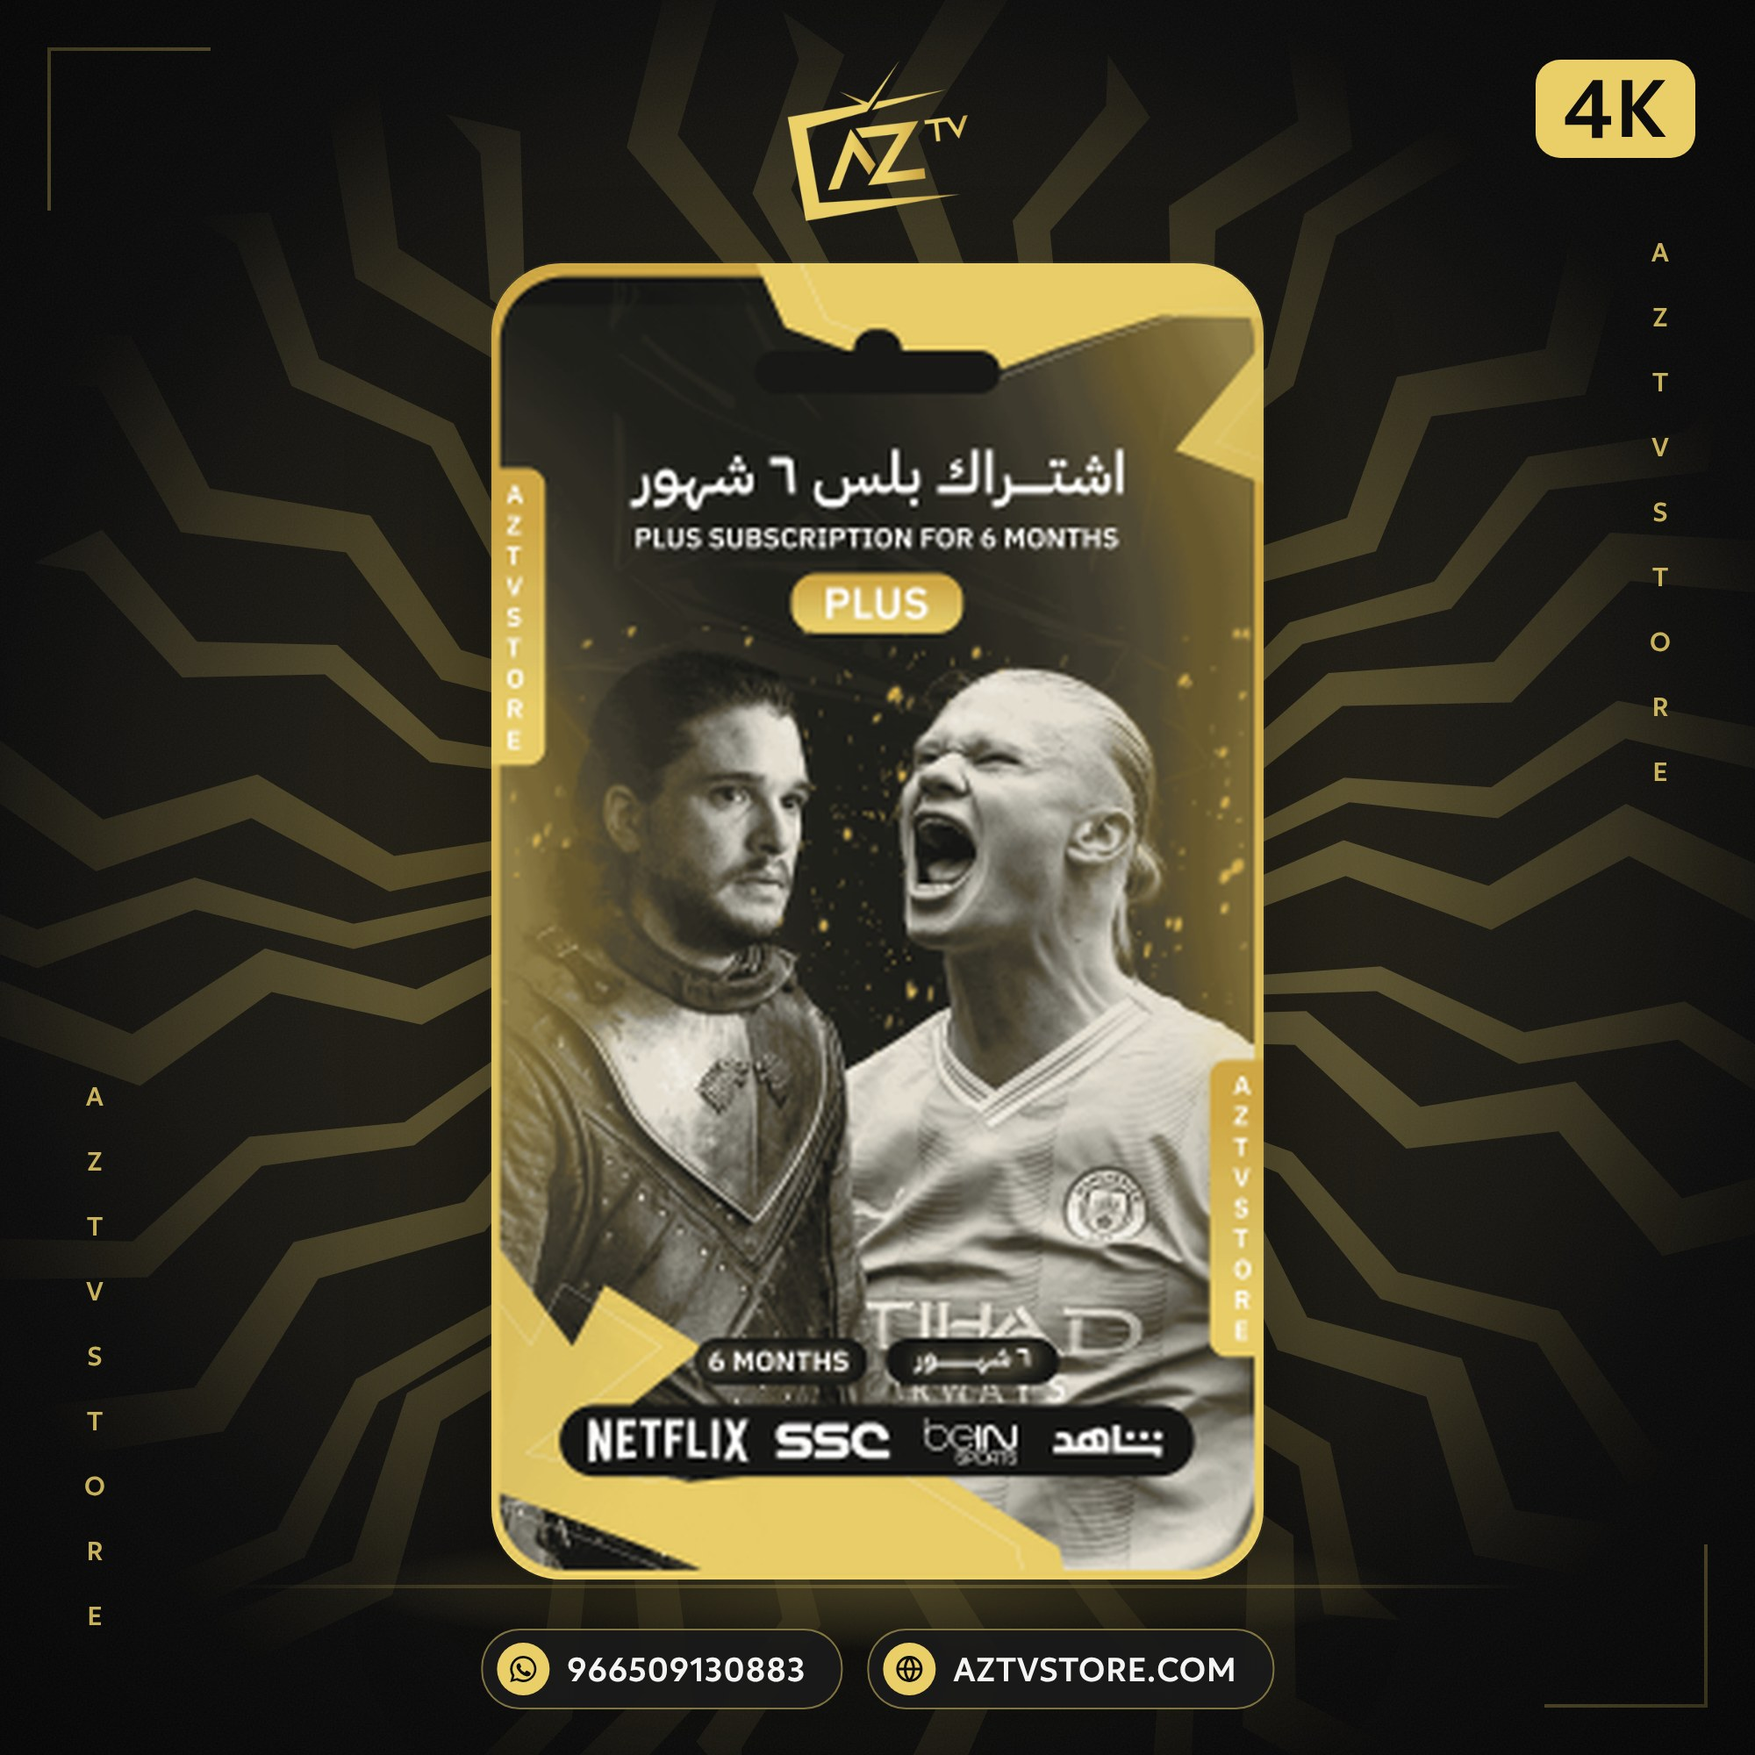
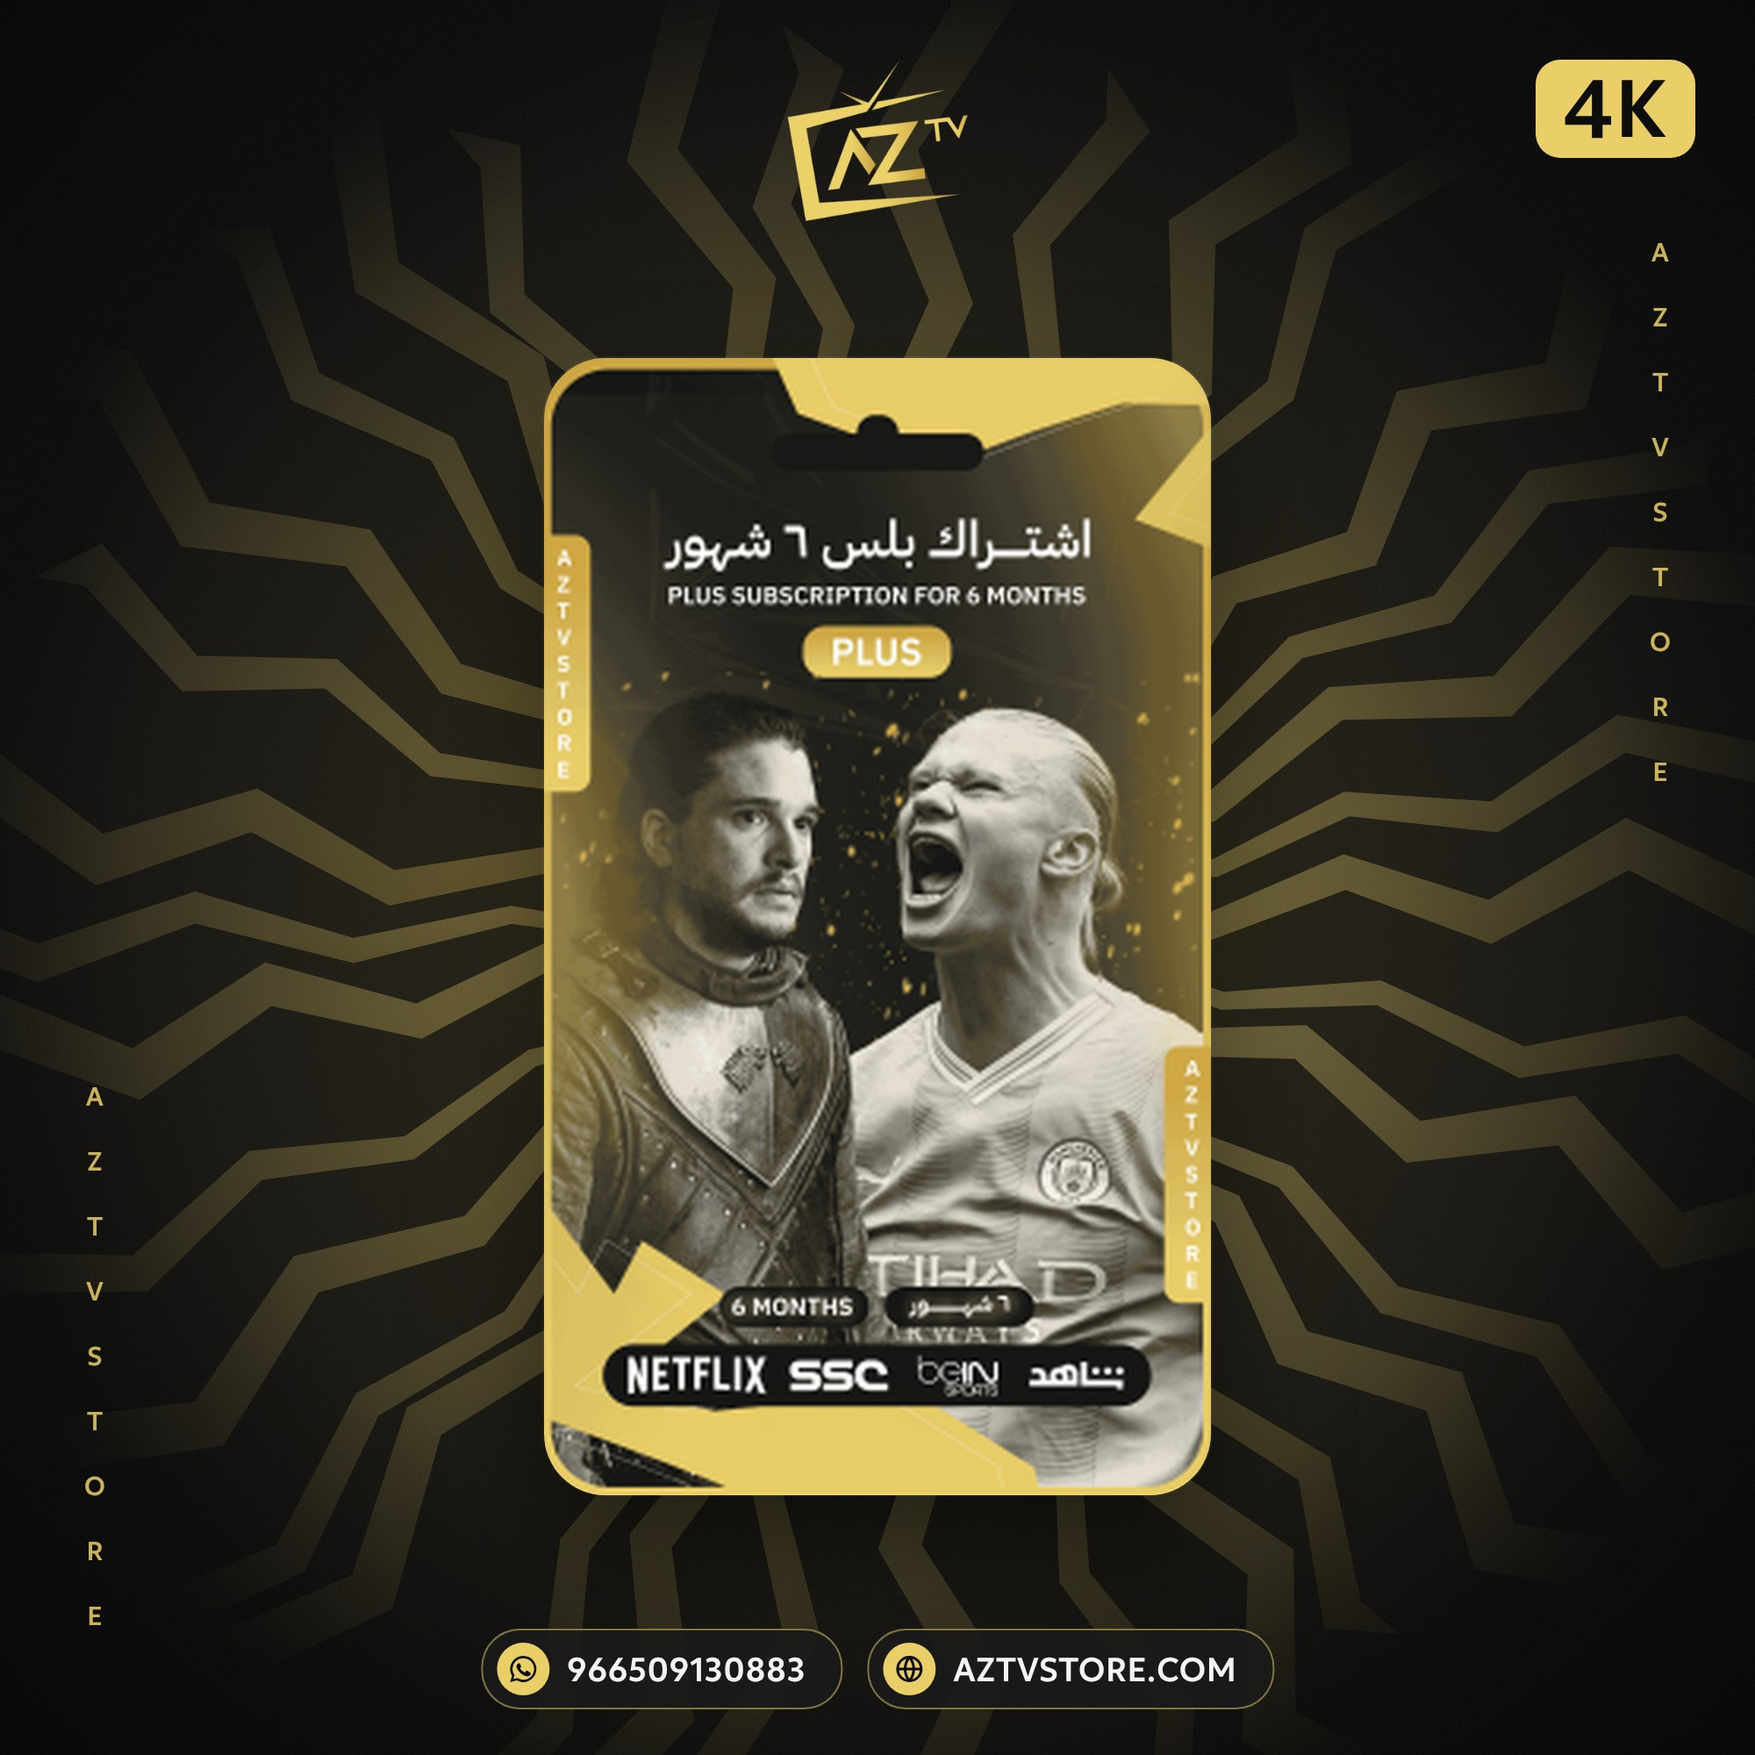
Subscription backgrounds round 2: drop Option A, clean up B, add halo Option C
Option B loses the floor light and corner frames. New Option C: light
from above, soft shafts, thin rings with a glowing top arc. Card area
reduced to 380x648 in both.

Claude-Session: https://claude.ai/code/session_01APUoivmsLmAKtGKCuQEHPz

Changed region(s): [[0.062, 0.093, 0.961, 0.93]]

diff --git a/05-design/shared/subscription-backgrounds/backgrounds.html b/05-design/shared/subscription-backgrounds/backgrounds.html
@@ -6,11 +6,11 @@
 <title>Subscription Backgrounds</title>
 <!--
   One background for every subscription card: AZ TV (white) and AZ TV Plus (gold).
-  Two directions to choose from: A = diagonal shards (the old look, redrawn), B = spotlight burst.
-  The card sits in the reserved area (x 280-720, y 150-900 on the 1000 x 1000 canvas), same place as the old images,
-  so the existing card files drop straight in.
+  Two directions to choose from: B = spotlight burst, C = halo (light from above, thin rings).
+  The card sits in the reserved area (x 310-690, y 204-852 on the 1000 x 1000 canvas): same proportions as the old cards,
+  a little smaller than in the old images, so the existing card files still drop straight in.
 
-  URL options:  ?opt=a|b  &tier=regular|plus  &guide=1 (show the card area)  &card=path/to/card.png (mock-up)
+  URL options:  ?opt=b|c  &tier=regular|plus  &guide=1 (show the card area)  &card=path/to/card.png (mock-up)
   Export:       node render.cjs  (writes export/ and mockups/)
 -->
 <style>
@@ -38,7 +38,6 @@
   .side--r { right: 40px; top: 56px; }
   .side--l { left: 40px; bottom: 56px; }
   .bg[data-tier="plus"] .side { color: var(--gold); }
-  .bg[data-opt="a"] .side { mix-blend-mode: difference; opacity: 1; }
 
   /* 4K badge (Plus only) */
   .badge {
@@ -67,16 +66,16 @@
 
   /* reserved card area */
   .guide {
-    position: absolute; left: 280px; top: 150px; width: 440px; height: 750px; border-radius: 40px;
+    position: absolute; left: 310px; top: 204px; width: 380px; height: 648px; border-radius: 35px;
     outline: 3px dashed #ff3b6b; outline-offset: 0; display: none;
   }
   .guide::after {
-    content: "CARD 440 x 750"; position: absolute; inset: auto 0 50% 0; text-align: center;
+    content: "CARD 380 x 648"; position: absolute; inset: auto 0 50% 0; text-align: center;
     font: 700 22px/1 system-ui, sans-serif; color: #ff3b6b; direction: ltr;
   }
   .show-guide .guide { display: block; }
   .card {
-    position: absolute; left: 280px; top: 150px; width: 440px; height: 750px; border-radius: 40px; overflow: hidden;
+    position: absolute; left: 310px; top: 204px; width: 380px; height: 648px; border-radius: 35px; overflow: hidden;
     box-shadow: 0 40px 70px rgba(0, 0, 0, .55), 0 0 0 1px rgba(255, 255, 255, .06); display: none;
   }
   .card img { width: 100%; height: 100%; object-fit: cover; display: block; }
@@ -100,7 +99,7 @@
 
 <script>
 const q = new URLSearchParams(location.search);
-const opt = q.get("opt") || "a";
+const opt = q.get("opt") || "b";
 const tier = q.get("tier") || "regular";
 const bg = document.getElementById("bg");
 const art = document.getElementById("art");
@@ -143,83 +142,81 @@ const defs = `
     <linearGradient id="band" x1="0" y1="0" x2="1" y2="1">
       <stop offset="0" stop-color="${C.hi}"/><stop offset=".55" stop-color="${C.mid}"/><stop offset="1" stop-color="${C.lo}"/>
     </linearGradient>
-    <radialGradient id="spot" cx="500" cy="500" r="520" gradientUnits="userSpaceOnUse">
+    <radialGradient id="spot" cx="500" cy="528" r="520" gradientUnits="userSpaceOnUse">
       <stop offset="0" stop-color="rgb(${C.glow})" stop-opacity="${plus ? .34 : .2}"/>
       <stop offset=".45" stop-color="rgb(${C.glow})" stop-opacity="${plus ? .1 : .06}"/>
       <stop offset="1" stop-color="rgb(${C.glow})" stop-opacity="0"/>
     </radialGradient>
-    <radialGradient id="rayfade" cx="500" cy="520" r="560" gradientUnits="userSpaceOnUse">
+    <radialGradient id="rayfade" cx="500" cy="528" r="560" gradientUnits="userSpaceOnUse">
       <stop offset=".3" stop-color="#fff" stop-opacity="1"/><stop offset="1" stop-color="#fff" stop-opacity="0"/>
     </radialGradient>
     <mask id="raymask"><rect width="1000" height="1000" fill="url(#rayfade)"/></mask>
     <radialGradient id="vignette" cx="500" cy="480" r="760" gradientUnits="userSpaceOnUse">
       <stop offset=".55" stop-color="#000" stop-opacity="0"/><stop offset="1" stop-color="#000" stop-opacity=".75"/>
     </radialGradient>
-    <linearGradient id="floor" x1="0" y1="0" x2="1" y2="0">
-      <stop offset="0" stop-color="rgb(${C.glow})" stop-opacity="0"/>
-      <stop offset=".5" stop-color="rgb(${C.glow})" stop-opacity=".9"/>
+    <linearGradient id="beam" x1="0" y1="0" x2="0" y2="1">
+      <stop offset="0" stop-color="rgb(${C.glow})" stop-opacity="${plus ? .34 : .22}"/>
+      <stop offset=".55" stop-color="rgb(${C.glow})" stop-opacity="${plus ? .1 : .06}"/>
       <stop offset="1" stop-color="rgb(${C.glow})" stop-opacity="0"/>
     </linearGradient>
-    <radialGradient id="pool" cx="500" cy="905" r="300" gradientUnits="userSpaceOnUse" gradientTransform="translate(0 905) scale(1 .12) translate(0 -905)">
-      <stop offset="0" stop-color="rgb(${C.glow})" stop-opacity=".45"/><stop offset="1" stop-color="rgb(${C.glow})" stop-opacity="0"/>
+    <filter id="soft" filterUnits="userSpaceOnUse" x="-100" y="-100" width="1200" height="1200"><feGaussianBlur stdDeviation="18"/></filter>
+    <filter id="shaft" filterUnits="userSpaceOnUse" x="-100" y="-100" width="1200" height="1200"><feGaussianBlur stdDeviation="9"/></filter>
+    <radialGradient id="halo" cx="500" cy="528" r="430" gradientUnits="userSpaceOnUse">
+      <stop offset="0" stop-color="rgb(${C.glow})" stop-opacity="${plus ? .22 : .13}"/>
+      <stop offset=".6" stop-color="rgb(${C.glow})" stop-opacity="${plus ? .06 : .035}"/>
+      <stop offset="1" stop-color="rgb(${C.glow})" stop-opacity="0"/>
     </radialGradient>
+    <linearGradient id="arcfade" x1="360" y1="0" x2="640" y2="0" gradientUnits="userSpaceOnUse">
+      <stop offset="0" stop-color="${C.hi}" stop-opacity="0"/><stop offset=".5" stop-color="${C.hi}"/>
+      <stop offset="1" stop-color="${C.hi}" stop-opacity="0"/>
+    </linearGradient>
+    <linearGradient id="ring" x1="0" y1="0" x2="0" y2="1">
+      <stop offset="0" stop-color="${C.hi}" stop-opacity=".9"/>
+      <stop offset=".5" stop-color="${C.mid}" stop-opacity=".35"/>
+      <stop offset="1" stop-color="${C.lo}" stop-opacity=".05"/>
+    </linearGradient>
   </defs>`;
 
 let body = "";
 
-if (opt === "a") {
-  // A: diagonal shards. Same geometry for both tiers, only the colour changes (white / gold).
-  const dark = `<rect width="1000" height="1000" fill="#0D0D0D"/>
-    <rect width="1000" height="1000" fill="url(#spot)"/>`;
-  // faint angles texture in the dark top half
-  let tex = "";
-  seed = 11;
-  for (let i = 0; i < 22; i++) {
-    const a = -Math.PI + (i / 22) * Math.PI * 2 + (rnd() - .5) * .2;
-    tex += `<polygon points="${zigRay(500, 470, a, 120, 520 + rnd() * 160, 16 + rnd() * 10, 16, 6)}"/>`;
+if (opt === "c") {
+  // C: halo. Light falls from above onto the card, two thin rings frame it, a little dust in the beam.
+  let dust = "";
+  seed = 5;
+  for (let i = 0; i < 90; i++) {
+    const y = 40 + rnd() * 900, spread = 60 + y * .36;
+    const x = 500 + (rnd() - .5) * 2 * spread;
+    const r = .6 + rnd() * rnd() * 2.6;
+    dust += `<circle cx="${x.toFixed(1)}" cy="${y.toFixed(1)}" r="${r.toFixed(2)}" opacity="${(.15 + rnd() * .6).toFixed(2)}"/>`;
   }
-  const texture = `<g fill="#fff" opacity="${plus ? .035 : .05}">${tex}</g>`;
-  // main band: wide diagonal sweep across the middle, rising to the right
-  const band = `
-    <polygon points="0,590 1000,420 1000,660 0,830" fill="url(#band)"/>
-    <polygon points="0,590 1000,420 1000,438 0,614" fill="#0D0D0D" opacity=".9"/>
-    <polygon points="0,830 1000,660 1000,680 0,856" fill="#0D0D0D" opacity=".85"/>`;
-  // loose shards around the band (the broken-glass pieces of the old Plus image)
-  const shards = `
-    <g fill="url(#band)">
-      <polygon points="0,470 150,445 70,520 0,532"/>
-      <polygon points="860,330 1000,300 1000,352 905,368"/>
-      <polygon points="120,955 300,915 250,965 90,1000 60,1000"/>
-      <polygon points="780,745 1000,706 1000,742 830,772"/>
-      <polygon points="40,240 110,226 70,262"/>
-      <polygon points="905,600 960,588 930,630"/>
+  body = `<rect width="1000" height="1000" fill="#0D0D0D"/>
+    <polygon points="430,-20 570,-20 900,1000 100,1000" fill="url(#beam)" filter="url(#soft)"/>
+    <rect width="1000" height="1000" fill="url(#halo)"/>
+    <g filter="url(#shaft)" fill="rgb(${C.glow})">
+      <polygon points="490,-10 500,-10 330,1000 300,1000" opacity="${plus ? .16 : .1}"/>
+      <polygon points="500,-10 510,-10 700,1000 670,1000" opacity="${plus ? .16 : .1}"/>
+      <polygon points="496,-10 504,-10 520,1000 480,1000" opacity="${plus ? .2 : .12}"/>
     </g>
-    <g stroke="rgb(${C.glow})" stroke-opacity=".35" stroke-width="2" fill="none">
-      <path d="M0 640 L1000 466"/><path d="M0 890 L1000 716"/>
-    </g>`;
-  // lower part a touch lighter than the top so the card reads as "standing" on the band
-  const lower = `<polygon points="0,856 1000,680 1000,1000 0,1000" fill="#141414"/>`;
-  body = dark + texture + band + lower + shards +
-    `<rect width="1000" height="1000" fill="url(#vignette)" opacity=".7"/>
-     <rect width="1000" height="1000" filter="url(#grain)" opacity=".07"/>`;
+    <circle cx="500" cy="528" r="356" fill="none" stroke="url(#ring)" stroke-width="2"/>
+    <circle cx="500" cy="528" r="390" fill="none" stroke="url(#ring)" stroke-width="1" opacity=".4"/>
+    <path d="M330 215 A356 356 0 0 1 670 215" fill="none" stroke="rgb(${C.glow})" stroke-width="10" stroke-opacity="${plus ? .55 : .4}" filter="url(#soft)"/>
+    <path d="M360 200.6 A356 356 0 0 1 640 200.6" fill="none" stroke="url(#arcfade)" stroke-width="3"/>
+    <g fill="rgb(${C.glow})">${dust}</g>
+    <rect width="1000" height="1000" fill="url(#vignette)"/>
+    <rect width="1000" height="1000" filter="url(#grain)" opacity=".06"/>`;
 } else {
-  // B: spotlight burst. Black stage, jagged rays from behind the card, a lit floor under it.
+  // B: spotlight burst. Black stage, jagged rays (the cards' "angles" motif) from behind the card.
   let rays = "";
   seed = 3;
   const N = 34;
   for (let i = 0; i < N; i++) {
     const a = (i / N) * Math.PI * 2 + (rnd() - .5) * .12;
     const long = i % 2 === 0;
-    rays += `<polygon points="${zigRay(500, 520, a, 90 + rnd() * 40, (long ? 640 : 470) + rnd() * 120, long ? 22 : 13, long ? 22 : 14, long ? 7 : 5)}"/>`;
+    rays += `<polygon points="${zigRay(500, 528, a, 90 + rnd() * 40, (long ? 640 : 470) + rnd() * 120, long ? 22 : 13, long ? 22 : 14, long ? 7 : 5)}"/>`;
   }
   body = `<rect width="1000" height="1000" fill="#0D0D0D"/>
     <g mask="url(#raymask)"><g fill="url(#band)" opacity="${plus ? .42 : .2}">${rays}</g></g>
     <rect width="1000" height="1000" fill="url(#spot)"/>
-    <ellipse cx="500" cy="905" rx="420" ry="46" fill="url(#pool)"/>
-    <rect x="130" y="903" width="740" height="2" fill="url(#floor)" opacity=".8"/>
-    <g fill="none" stroke="rgb(${C.glow})" stroke-opacity=".5" stroke-width="2">
-      <path d="M28 120 V28 H120"/><path d="M972 880 V972 H880"/>
-    </g>
     <rect width="1000" height="1000" fill="url(#vignette)"/>
     <rect width="1000" height="1000" filter="url(#grain)" opacity=".07"/>`;
 }

diff --git a/05-design/shared/subscription-backgrounds/README.md b/05-design/shared/subscription-backgrounds/README.md
@@ -5,23 +5,23 @@ One background for every subscription product image. The card in the middle chan
 - **AZ TV** (regular): white accent, white logo.
 - **AZ TV Plus**: gold `#EACF69` accent, gold logo, 4K badge.
 
-Two directions to choose from:
+Two directions to choose from (Option A, the diagonal shards, was dropped on 2026-10-23: too busy):
 
-| | Option A: diagonal shards | Option B: spotlight burst |
+| | Option B: spotlight burst | Option C: halo |
 |---|---|---|
-| Idea | The old images' look, redrawn: dark top, one diagonal band (white or gold) with broken shards, same geometry for both tiers. | Black stage, jagged rays (the "angles" motif of the cards) bursting from behind the card, soft glow, lit floor line under the card. |
-| Preview | `compare-option-a.webp` | `compare-option-b.webp` |
+| Idea | Black stage, jagged rays (the "angles" motif of the cards) bursting from behind the card, soft glow. | Light falling from above through the logo onto the card, soft light shafts, two thin rings with a glowing top arc, a little dust in the beam. Calm but dramatic. |
+| Preview | `compare-option-b.webp` | `compare-option-c.webp` |
 
 Each preview: top row empty backgrounds, bottom row with the current 6-month cards dropped in.
 
 ## Layout (1000 x 1000 canvas, exported at 2000 x 2000)
 
-- Card area: x 280-720, y 150-900, corner radius 40 (the same place as in the old images, so the existing cards fit). `export/*-guide.jpg` shows it.
+- Card area: x 310-690, y 204-852 (380 x 648), corner radius 35. Same proportions as the current cards, a little smaller than in the old images. `export/*-guide.jpg` shows it.
 - Logo top centre, vertical AZTVSTORE on both sides, contact pills (WhatsApp 966509130883, AZTVSTORE.COM) at the bottom, 4K badge top right on Plus.
 
 ## Files
 
-- `backgrounds.html`: the source. Open it with `?opt=a|b&tier=regular|plus`, add `&guide=1` for the card area or `&card=<png>` for a mock-up.
+- `backgrounds.html`: the source. Open it with `?opt=b|c&tier=regular|plus`, add `&guide=1` for the card area or `&card=<png>` for a mock-up.
 - `render.cjs`: exports everything (`node render.cjs`, needs Playwright).
 - `export/`: final backgrounds, 2000 x 2000 PNG.
 - `mockups/`: backgrounds with the old 6-month cards (cut from the old images, edges are approximate).

diff --git a/PROJECT.md b/PROJECT.md
@@ -160,6 +160,7 @@ new store design/
 
 ## 10. Log
 
+- 2026-10-23: Subscription backgrounds, round 2 after client feedback. Option A dropped (too busy). Option B kept without the floor light and the corner frames. New Option C "halo": light from above, soft shafts, two thin rings, dust in the beam. Card made smaller in both: 380 x 648 at x 310, y 204 (of 1000). Previews `compare-option-b.webp`, `compare-option-c.webp`.
 - 2026-10-23: Subscription product backgrounds, two options for the client to pick (sections 07 and 11). One background for all subscription cards, the card in the middle changes per product. AZ TV uses white, AZ TV Plus uses gold with a 4K badge. Option A redraws the old diagonal look (dark top, one white or gold band with shards); Option B is a black stage with jagged rays from behind the card and a lit floor. Card area kept where it was in the old images (x 280-720, y 150-900 of 1000) so the current cards fit. Files in `05-design/shared/subscription-backgrounds/` (previews `compare-option-a.webp`, `compare-option-b.webp`; finals 2000 x 2000 in `export/`).
 
 - 2026-10-21: Section 03 main categories, first draft. Five cards after the logo strip: تجديد الاشتراك (c183760688 "جدد الان"), AZ TV (c971844871), AZ TV Plus (c921887589), beIN Sports (c899162953, official renewal; there is no single beIN category), AZ TV Box (product p1152326425). Five images generated in Gemini in one matching style and warm-graded to the brand; originals `cat-*-gemini.jpg` in `05-design/sections/03-main-categories/`, web versions `cat-*.webp` (600x800). Cards 2-5 are Gemini's 765x1024 previews (Chrome blocked the full-size downloads), enough for the card size. The AZ TV Box image is a generic device: replace with the real product photo before going live.
